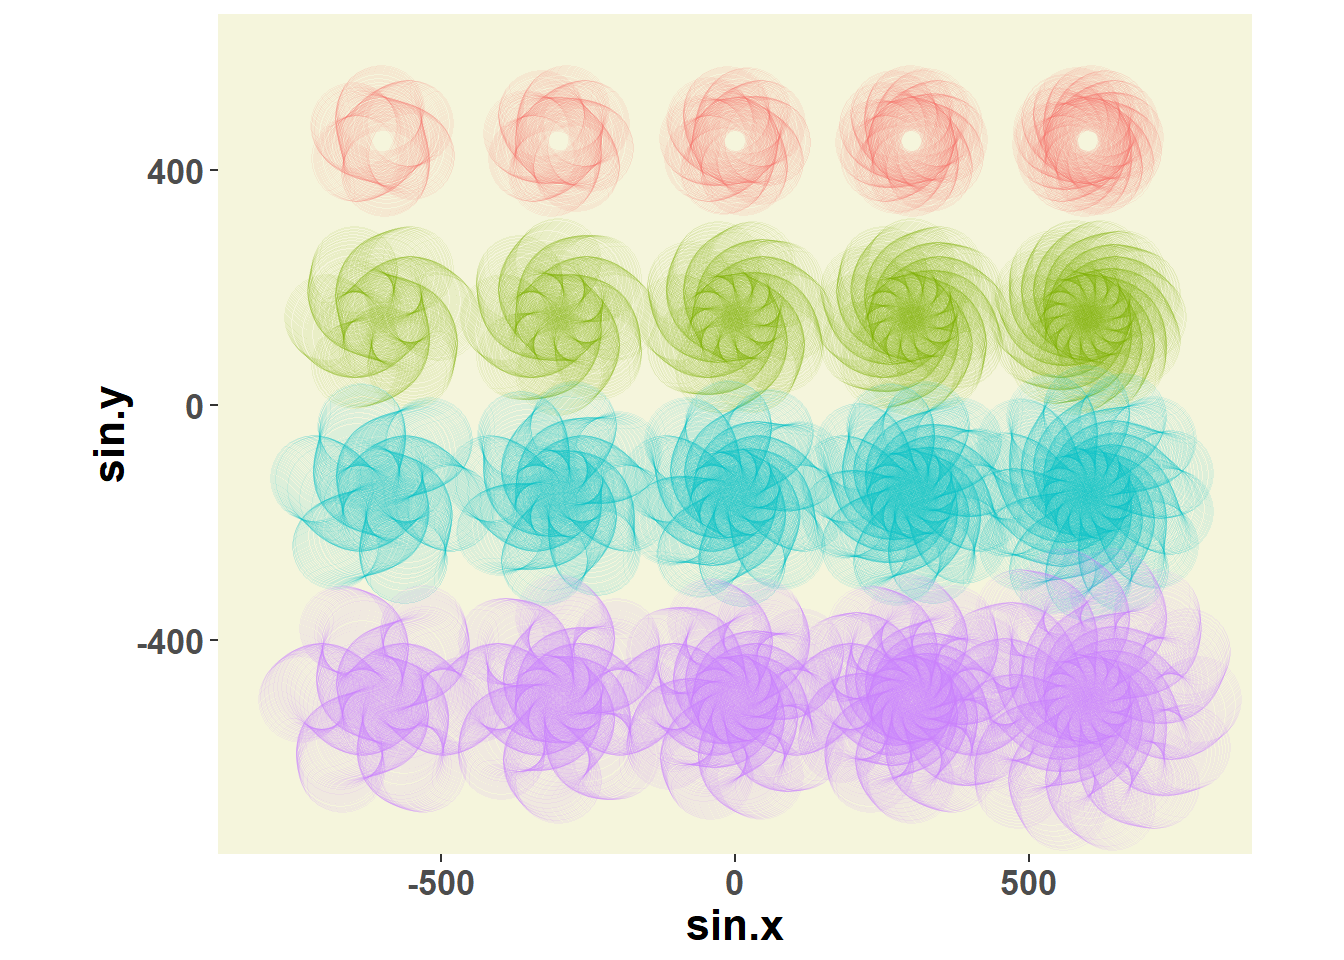
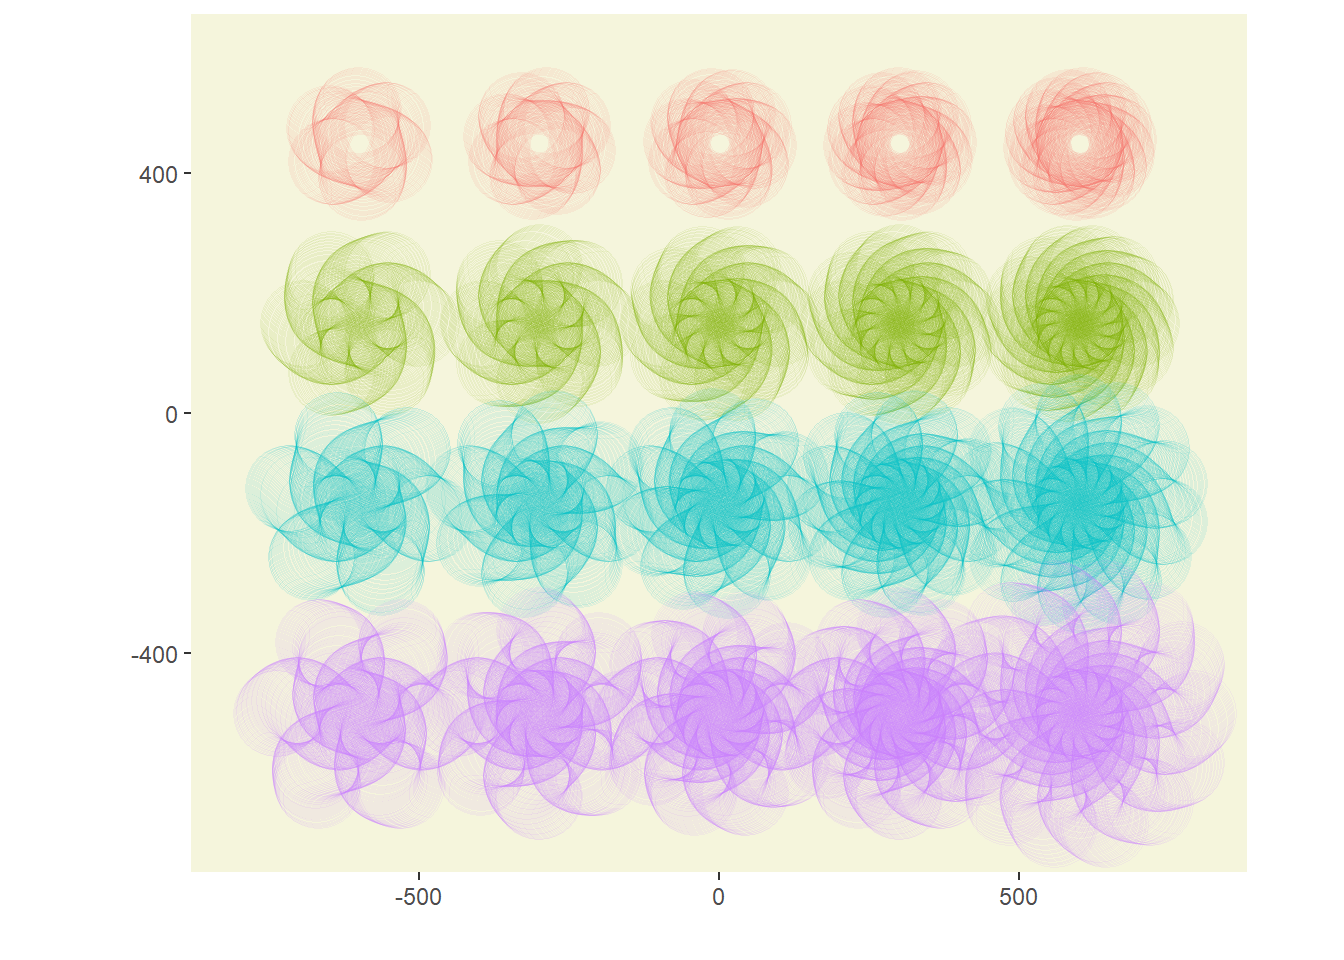
lala

Changed region(s): [[0.0938, 0.0, 0.9375, 1.0], [0.0625, 0.4062, 0.0938, 0.5]]

diff --git a/content/post/2016-01-25-ggplot2绘制花朵.html b/content/post/2016-01-25-ggplot2绘制花朵.html
@@ -118,14 +118,13 @@ for (i in 1:nrow(params)) {
     size = 15, alpha = .1
   ) +
   theme(
-    text = element_text(size = 16, face = &quot;bold&quot;),
     legend.position = &#39;none&#39;,
     panel.background = element_rect(fill = &quot;beige&quot;),
     panel.grid.major = element_blank(),
     panel.grid.minor = element_blank()
   ) +
-  scale_x_continuous(limits = c(-800, 800)) +
-  scale_y_continuous(limits = c(-700, 600)) +
+  scale_x_continuous(&#39;&#39;, limits = c(-800, 800)) +
+  scale_y_continuous(&#39;&#39;, limits = c(-700, 600)) +
   coord_fixed()</code></pre>
 <p><img src="/post/2016-01-25-ggplot2绘制花朵_files/figure-html/unnamed-chunk-5-1.png" width="672" /></p>
 </div>
@@ -150,7 +149,6 @@ for (i in 1:36) {
     size = 2, alpha = .05
   ) +
   theme(
-    text = element_text(size = 16, face = &quot;bold&quot;),
     legend.position = &quot;none&quot;,
     panel.background = element_rect(fill = &quot;floralwhite&quot;),
     panel.grid.major = element_blank(),
@@ -158,10 +156,9 @@ for (i in 1:36) {
     axis.text.x = element_blank(),
     axis.text.y = element_blank()
   ) +
-  scale_x_continuous(limits = c(-800, 800)) +
-  scale_y_continuous(limits = c(-700, 600)) +
+  scale_x_continuous(&#39;&#39;, limits = c(-800, 800)) +
+  scale_y_continuous(&#39;&#39;, limits = c(-700, 600)) +
   coord_fixed()</code></pre>
-<pre><code>## Warning: Removed 20 rows containing missing values (geom_point).</code></pre>
 <p><img src="/post/2016-01-25-ggplot2绘制花朵_files/figure-html/unnamed-chunk-7-1.png" width="672" /></p>
 </div>
 <div class="section level2">
@@ -255,7 +252,6 @@ for (i in 1:45) {
   scale_x_continuous(name = &quot;&quot;, limits = c(-1200, 1200)) +
   scale_y_continuous(name = &quot;&quot;, limits = c(-700, 600)) +
   coord_fixed()</code></pre>
-<pre><code>## Warning: Removed 42 rows containing missing values (geom_point).</code></pre>
 <p><img src="/post/2016-01-25-ggplot2绘制花朵_files/figure-html/unnamed-chunk-11-1.png" width="672" /></p>
 </div>
 <div class="section level2">
